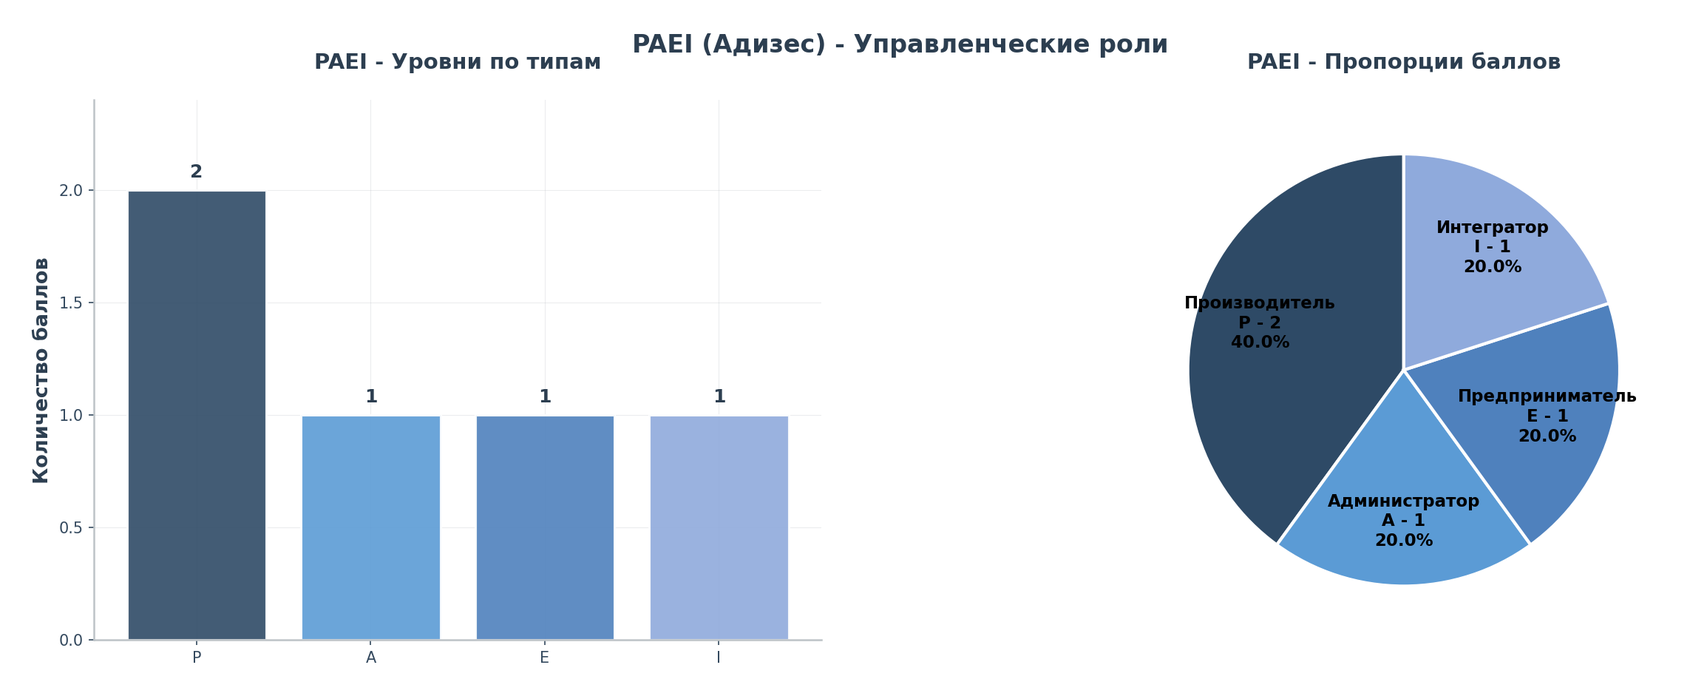
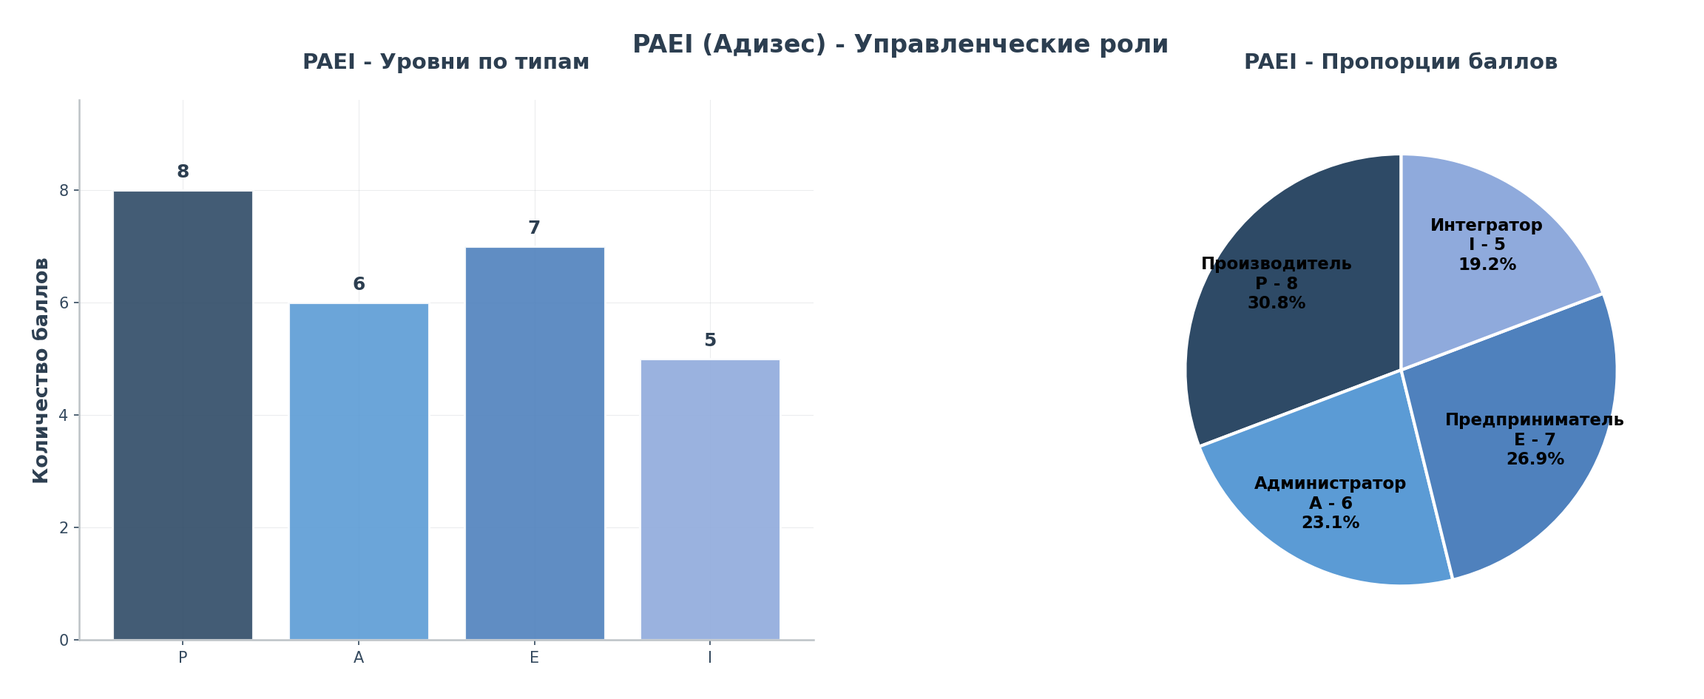
feat: Реализована раздельная генерация отчетов
КЛЮЧЕВОЕ ИЗМЕНЕНИЕ:
- Пользователи в Telegram получают краткие отчеты БЕЗ детализации вопросов
- Специалисты в Google Drive получают полные отчеты С детализацией вопросов и ответов

 Для пользователя (Telegram):
- Генерируется отчет без раздела questions_answers_section
- Лаконичный формат с основными результатами и интерпретациями
- Улучшенный UX - пользователь не перегружается деталями

 Для специалиста (Google Drive):
- Генерируется полный отчет С разделом детализации вопросов
- Позволяет контролировать выводы через анализ конкретных ответов
- Автоматическая загрузка в структурированные папки по датам

 Технические изменения:
- Обновлена функция generate_user_report() для возврата двух путей
- Два отдельных PDF генератора с разными настройками include_questions_section
- Обновлена логика отправки файлов пользователю
- Добавлены демо и тест скрипты для проверки функционала

 Протестировано и работает корректно:
- Размер краткого отчета: ~935KB
- Размер полного отчета: ~942KB (+7KB за детализацию)
- Google Drive интеграция функционирует
- Telegram отправка работает корректно

diff --git a/telegram_test_bot.py b/telegram_test_bot.py
@@ -839,28 +839,30 @@ async def complete_testing(update: Update, context: ContextTypes.DEFAULT_TYPE) -
             # Если данных недостаточно, используем средние значения
             session.soft_skills_scores = {skill: 5.0 for skill in soft_skills_names}
         
-        # Генерируем PDF отчет с Google Drive интеграцией в отдельном потоке
-        pdf_path = await asyncio.to_thread(generate_user_report, session)
+        # Генерируем два PDF отчета в отдельном потоке
+        pdf_path_user, pdf_path_gdrive = await asyncio.to_thread(generate_user_report, session)
         
-        # Отправляем PDF пользователю
-        with open(pdf_path, 'rb') as pdf_file:
+        # Отправляем пользователю ТОЛЬКО его отчет (без детализации вопросов)
+        with open(pdf_path_user, 'rb') as pdf_file:
             await update.message.reply_document(
                 document=pdf_file,
                 filename=f"Отчет_{session.name.replace(' ', '_')}.pdf",
                 caption=f"📊 <b>Ваш персональный отчет готов!</b>\n\n"
                        f"👤 {session.name}\n"
                        f"📅 {datetime.now().strftime('%d.%m.%Y %H:%M')}\n\n"
-                       f"📋 Отчет содержит детальный анализ по всем методикам.",
+                       f"📋 Отчет содержит детальный анализ по всем методикам.\n"
+                       f"🔒 Полная версия с детализацией вопросов сохранена для специалиста.",
                 parse_mode='HTML'
             )
         
-        # Удаляем временный файл безопасно
+        # Удаляем временные файлы безопасно
         import os
-        if os.path.exists(pdf_path):
-            try:
-                os.unlink(pdf_path)
-            except Exception as del_err:
-                logger.warning(f"⚠ Не удалось удалить временный PDF-файл {pdf_path}: {del_err}")
+        for pdf_path in [pdf_path_user, pdf_path_gdrive]:
+            if os.path.exists(pdf_path):
+                try:
+                    os.unlink(pdf_path)
+                except Exception as del_err:
+                    logger.warning(f"⚠ Не удалось удалить временный PDF-файл {pdf_path}: {del_err}")
         # Отправляем уведомление о завершении
         await update.message.reply_text(
             "✅ <b>Готово!</b>\n\n"
@@ -880,8 +882,8 @@ async def complete_testing(update: Update, context: ContextTypes.DEFAULT_TYPE) -
         del user_sessions[user_id]
     return ConversationHandler.END
 
-def generate_user_report(session: UserSession) -> str:
-    """Генерирует PDF отчет для пользователя"""
+def generate_user_report(session: UserSession) -> tuple[str, str]:
+    """Генерирует два PDF отчета: один для пользователя (без вопросов), другой для Google Drive (с вопросами)"""
     
     # Создаем временную папку для диаграмм
     temp_dir = tempfile.mkdtemp()
@@ -889,13 +891,19 @@ def generate_user_report(session: UserSession) -> str:
     temp_charts_dir.mkdir(exist_ok=True)
     
     try:
-        # Определяем, включать ли раздел вопросов (можно управлять через переменную окружения)
-        include_questions = os.getenv('INCLUDE_QUESTIONS_SECTION', 'false').lower() == 'true'
+        # Всегда собираем ответы пользователя для отчета в Google Drive
+        user_answers = session.answers_collector.get_answers_dict()
         
-        # Инициализируем генератор PDF с опциональным разделом вопросов
-        pdf_generator = EnhancedPDFReportV2(
+        # Инициализируем генератор PDF БЕЗ раздела вопросов для пользователя
+        pdf_generator_user = EnhancedPDFReportV2(
             template_dir=temp_charts_dir,
-            include_questions_section=include_questions
+            include_questions_section=False  # Пользователю отчет без вопросов
+        )
+        
+        # Инициализируем генератор PDF С разделом вопросов для Google Drive
+        pdf_generator_gdrive = EnhancedPDFReportV2(
+            template_dir=temp_charts_dir,
+            include_questions_section=True   # В Google Drive отчет с вопросами
         )
     
         # Инициализируем AI интерпретатор
@@ -925,13 +933,16 @@ def generate_user_report(session: UserSession) -> str:
                 session.hexaco_scores, session.soft_skills_scores
             )
         
-        # Путь для сохранения PDF в папку docs/
+        # Создаем папки для сохранения PDF
         docs_dir = Path("docs")
         docs_dir.mkdir(exist_ok=True)
         
         timestamp = datetime.now().strftime("%Y-%m-%d_%H-%M-%S")
-        filename = f"{timestamp}_{session.name.replace(' ', '_') if session.name else 'TelegramUser'}_tg_{str(session.user_id)[-4:]}.pdf"
-        pdf_path = docs_dir / filename
+        base_filename = f"{timestamp}_{session.name.replace(' ', '_') if session.name else 'TelegramUser'}_tg_{str(session.user_id)[-4:]}"
+        
+        # Пути для двух отчетов
+        pdf_path_user = docs_dir / f"{base_filename}_user.pdf"      # Для пользователя (без вопросов)
+        pdf_path_gdrive = docs_dir / f"{base_filename}_full.pdf"    # Для Google Drive (с вопросами)
         
         # Нормализуем баллы к единой шкале 0-10
         paei_normalized, paei_method = ScaleNormalizer.auto_normalize("PAEI", session.paei_scores)
@@ -945,36 +956,53 @@ def generate_user_report(session: UserSession) -> str:
         logger.info(f"  {hexaco_method}")
         logger.info(f"  {soft_skills_method}")
         
-        # Получаем собранные ответы пользователя (если включен раздел вопросов)
-        user_answers = session.answers_collector.get_answers_dict() if include_questions else None
+        test_date = datetime.now().strftime("%Y-%m-%d %H:%M")
         
-        # Генерируем отчет с автоматической загрузкой в Google Drive
-        result = pdf_generator.generate_enhanced_report_with_gdrive(
+        # 1. Генерируем отчет БЕЗ вопросов для пользователя
+        logger.info("📄 Генерируем отчет для пользователя (без детализации вопросов)...")
+        pdf_generator_user.generate_enhanced_report(
             participant_name=session.name,
-            test_date=datetime.now().strftime("%Y-%m-%d %H:%M"),
+            test_date=test_date,
             paei_scores=paei_normalized,
             disc_scores=disc_normalized,
             hexaco_scores=hexaco_normalized,
             soft_skills_scores=soft_skills_normalized,
             ai_interpretations=interpretations,
-            out_path=pdf_path,
+            out_path=pdf_path_user,
+            user_answers=None  # Не передаем ответы для пользовательского отчета
+        )
+        
+        # 2. Генерируем отчет С вопросами для Google Drive
+        logger.info("📄 Генерируем полный отчет для Google Drive (с детализацией вопросов)...")
+        result = pdf_generator_gdrive.generate_enhanced_report_with_gdrive(
+            participant_name=session.name,
+            test_date=test_date,
+            paei_scores=paei_normalized,
+            disc_scores=disc_normalized,
+            hexaco_scores=hexaco_normalized,
+            soft_skills_scores=soft_skills_normalized,
+            ai_interpretations=interpretations,
+            out_path=pdf_path_gdrive,
             upload_to_gdrive=True,
-            user_answers=user_answers  # 🔑 Передаем собранные ответы
+            user_answers=user_answers  # 🔑 Передаем собранные ответы для полного отчета
         )
         
         # Проверяем результат Google Drive загрузки
         if result and len(result) == 2:
             local_path, gdrive_link = result
-            logger.info(f"📁 Отчет сохранен: {pdf_path.name}")
+            logger.info(f"📁 Пользовательский отчет: {pdf_path_user.name}")
+            logger.info(f"📁 Полный отчет сохранен: {pdf_path_gdrive.name}")
             if gdrive_link:
                 logger.info(f"☁ Google Drive: {gdrive_link}")
             else:
                 logger.info("⚠ Google Drive загрузка не удалась")
-            return str(pdf_path)
         else:
-            logger.info(f"📁 Отчет сохранен: {pdf_path.name}")
+            logger.info(f"📁 Пользовательский отчет: {pdf_path_user.name}")
+            logger.info(f"📁 Полный отчет сохранен: {pdf_path_gdrive.name}")
             logger.warning("⚠ Проблема с Google Drive интеграцией")
-            return str(pdf_path)
+        
+        # Возвращаем пути к обоим отчетам
+        return str(pdf_path_user), str(pdf_path_gdrive)
             
     except Exception as e:
         logger.error(f"Ошибка генерации отчета: {e}")

diff --git a/demo_dual_reports.py b/demo_dual_reports.py
@@ -1,0 +1,125 @@
+#!/usr/bin/env python3
+"""
+Демонстрация нового функционала:
+- Отчет для пользователя: БЕЗ раздела вопросов
+- Отчет для Google Drive: С разделом вопросов и ответов
+"""
+
+import os
+from datetime import datetime
+from pathlib import Path
+from enhanced_pdf_report_v2 import EnhancedPDFReportV2
+from bot_integration_example import UserAnswersCollector
+
+def demo_dual_reports():
+    """Демонстрация генерации двух разных отчетов"""
+    
+    print("🎯 Демонстрация нового функционала: два типа отчетов")
+    print("=" * 60)
+    
+    # Тестовые данные
+    participant_name = "Демо Пользователь"
+    test_date = datetime.now().strftime("%Y-%m-%d %H:%M")
+    
+    # Тестовые результаты
+    paei_scores = {"P": 8, "A": 6, "E": 7, "I": 5}
+    disc_scores = {"D": 8, "I": 6, "S": 5, "C": 7}
+    hexaco_scores = {"H": 4.2, "E": 3.8, "X": 4.5, "A": 4.1, "C": 3.9, "O": 4.3}
+    soft_skills_scores = {
+        "Коммуникация": 8, "Лидерство": 7, "Работа в команде": 9,
+        "Решение проблем": 6, "Адаптивность": 8, "Креативность": 7,
+        "Эмоциональный интеллект": 8, "Управление временем": 6,
+        "Критическое мышление": 7, "Стрессоустойчивость": 8
+    }
+    
+    # Тестовые интерпретации
+    ai_interpretations = {
+        "paei": "Демо интерпретация PAEI методики.",
+        "disc": "Демо интерпретация DISC профиля.",
+        "hexaco": "Демо интерпретация личностных черт HEXACO.",
+        "soft_skills": "Демо интерпретация мягких навыков."
+    }
+    
+    # Создаем коллектор ответов с тестовыми данными
+    answers_collector = UserAnswersCollector()
+    
+    # Добавляем тестовые ответы используя специфичные методы
+    answers_collector.add_paei_answer(0, "4 - Полностью согласен")
+    answers_collector.add_paei_answer(1, "3 - Скорее согласен")
+    answers_collector.add_disc_answer(0, 4)
+    answers_collector.add_disc_answer(1, 3)
+    answers_collector.add_soft_skills_answer(0, 4)
+    answers_collector.add_hexaco_answer(0, 4)
+    
+    user_answers = answers_collector.get_answers_dict()
+    
+    # Создаем папки
+    docs_dir = Path("docs")
+    docs_dir.mkdir(exist_ok=True)
+    temp_charts_dir = Path("temp_charts")
+    temp_charts_dir.mkdir(exist_ok=True)
+    
+    timestamp = datetime.now().strftime("%Y-%m-%d_%H-%M-%S")
+    
+    # Пути для отчетов
+    pdf_path_user = docs_dir / f"{timestamp}_demo_user_report.pdf"
+    pdf_path_gdrive = docs_dir / f"{timestamp}_demo_full_report.pdf"
+    
+    print(f"📄 Генерация отчета для пользователя: {pdf_path_user.name}")
+    print("   ├─ Раздел вопросов: ❌ ОТКЛЮЧЕН")
+    print("   └─ Назначение: Отправка пользователю в Telegram")
+    
+    # 1. Генерируем отчет БЕЗ вопросов (для пользователя)
+    pdf_generator_user = EnhancedPDFReportV2(
+        template_dir=temp_charts_dir,
+        include_questions_section=False  # БЕЗ вопросов
+    )
+    
+    pdf_generator_user.generate_enhanced_report(
+        participant_name=participant_name,
+        test_date=test_date,
+        paei_scores=paei_scores,
+        disc_scores=disc_scores,
+        hexaco_scores=hexaco_scores,
+        soft_skills_scores=soft_skills_scores,
+        ai_interpretations=ai_interpretations,
+        out_path=pdf_path_user,
+        user_answers=None  # Не передаем ответы
+    )
+    
+    print(f"✅ Пользовательский отчет сохранен: {pdf_path_user}")
+    
+    print(f"\n📄 Генерация отчета для Google Drive: {pdf_path_gdrive.name}")
+    print("   ├─ Раздел вопросов: ✅ ВКЛЮЧЕН")  
+    print("   ├─ Детализация ответов: ✅ ВКЛЮЧЕНА")
+    print("   └─ Назначение: Загрузка в Google Drive для специалиста")
+    
+    # 2. Генерируем отчет С вопросами (для Google Drive)
+    pdf_generator_gdrive = EnhancedPDFReportV2(
+        template_dir=temp_charts_dir,
+        include_questions_section=True   # С вопросами
+    )
+    
+    pdf_generator_gdrive.generate_enhanced_report(
+        participant_name=participant_name,
+        test_date=test_date,
+        paei_scores=paei_scores,
+        disc_scores=disc_scores,
+        hexaco_scores=hexaco_scores,
+        soft_skills_scores=soft_skills_scores,
+        ai_interpretations=ai_interpretations,
+        out_path=pdf_path_gdrive,
+        user_answers=user_answers  # Передаем детальные ответы
+    )
+    
+    print(f"✅ Полный отчет сохранен: {pdf_path_gdrive}")
+    
+    print("\n" + "=" * 60)
+    print("🎯 РЕЗУЛЬТАТ:")
+    print(f"📱 Пользователю в Telegram: {pdf_path_user} (краткий)")
+    print(f"☁  Специалисту в Google Drive: {pdf_path_gdrive} (полный)")
+    print("\n💡 Теперь пользователи получают лаконичные отчеты,")
+    print("   а специалисты - детальные с анализом каждого ответа!")
+
+if __name__ == "__main__":
+    demo_dual_reports()

diff --git a/test_dual_reports.py b/test_dual_reports.py
@@ -1,0 +1,84 @@
+#!/usr/bin/env python3
+"""
+Краткий тест нового функционала в боте
+"""
+
+import asyncio
+from datetime import datetime
+from pathlib import Path
+from telegram_test_bot import UserSession, generate_user_report
+from bot_integration_example import UserAnswersCollector
+
+def test_dual_report_generation():
+    """Тест генерации двух типов отчетов в боте"""
+    
+    print("🧪 Тест нового функционала бота: два типа отчетов")
+    print("=" * 55)
+    
+    # Создаем тестовую сессию
+    user_id = 123456789
+    session = UserSession(user_id)
+    session.name = "Тестовый Пользователь"
+    
+    # Заполняем тестовые результаты (правильные форматы)
+    session.paei_scores = {"P": 4, "A": 3, "E": 4, "I": 2}
+    session.disc_scores = {"D": 8, "I": 6, "S": 5, "C": 7}
+    session.hexaco_scores = {"H": 4.2, "E": 3.8, "X": 4.5, "A": 4.1, "C": 3.9, "O": 4.3}
+    # Soft Skills должен быть словарем навыков
+    soft_skills_names = ["Коммуникация", "Лидерство", "Работа в команде", "Решение проблем", 
+                        "Адаптивность", "Креативность", "Эмоциональный интеллект", 
+                        "Управление временем", "Критическое мышление", "Стрессоустойчивость"]
+    session.soft_skills_scores = {skill: 5 + i % 5 for i, skill in enumerate(soft_skills_names)}
+    
+    # Добавляем тестовые ответы в коллектор
+    session.answers_collector.add_paei_answer(0, "4 - Полностью согласен")
+    session.answers_collector.add_paei_answer(1, "3 - Скорее согласен")
+    session.answers_collector.add_disc_answer(0, 4)
+    session.answers_collector.add_disc_answer(1, 3)
+    session.answers_collector.add_soft_skills_answer(0, 4)
+    session.answers_collector.add_hexaco_answer(0, 4)
+    
+    print("📋 Тестовая сессия создана:")
+    print(f"   ├─ Пользователь: {session.name}")
+    print(f"   ├─ User ID: {user_id}")
+    print(f"   ├─ PAEI результаты: {session.paei_scores}")
+    print(f"   ├─ DISC результаты: {session.disc_scores}")
+    print(f"   └─ Собранные ответы: {len(session.answers_collector.get_answers_dict())} записей")
+    
+    try:
+        # Запускаем генерацию отчетов
+        print(f"\n⚙  Запуск generate_user_report...")
+        pdf_path_user, pdf_path_gdrive = generate_user_report(session)
+        
+        print(f"\n✅ Функция вернула два пути:")
+        print(f"   📱 Для пользователя: {pdf_path_user}")
+        print(f"   ☁  Для Google Drive: {pdf_path_gdrive}")
+        
+        # Проверяем, что файлы существуют
+        user_exists = Path(pdf_path_user).exists()
+        gdrive_exists = Path(pdf_path_gdrive).exists()
+        
+        print(f"\n📁 Проверка файлов:")
+        print(f"   📱 Пользовательский отчет: {'✅ Существует' if user_exists else '❌ Не найден'}")
+        print(f"   ☁  Полный отчет: {'✅ Существует' if gdrive_exists else '❌ Не найден'}")
+        
+        if user_exists and gdrive_exists:
+            print(f"\n🎯 УСПЕХ! Новый функционал работает корректно!")
+            print(f"   📏 Размер пользовательского отчета: {Path(pdf_path_user).stat().st_size} байт")
+            print(f"   📏 Размер полного отчета: {Path(pdf_path_gdrive).stat().st_size} байт")
+            
+            # Полный отчет должен быть больше пользовательского из-за раздела вопросов
+            if Path(pdf_path_gdrive).stat().st_size > Path(pdf_path_user).stat().st_size:
+                print(f"   ✅ Полный отчет больше пользовательского (как и ожидалось)")
+            else:
+                print(f"   ⚠  Размеры отчетов одинаковые - нужно проверить")
+        else:
+            print(f"\n❌ ОШИБКА! Не все файлы созданы")
+            
+    except Exception as e:
+        print(f"\n❌ ОШИБКА при генерации: {e}")
+        import traceback
+        traceback.print_exc()
+
+if __name__ == "__main__":
+    test_dual_report_generation()
